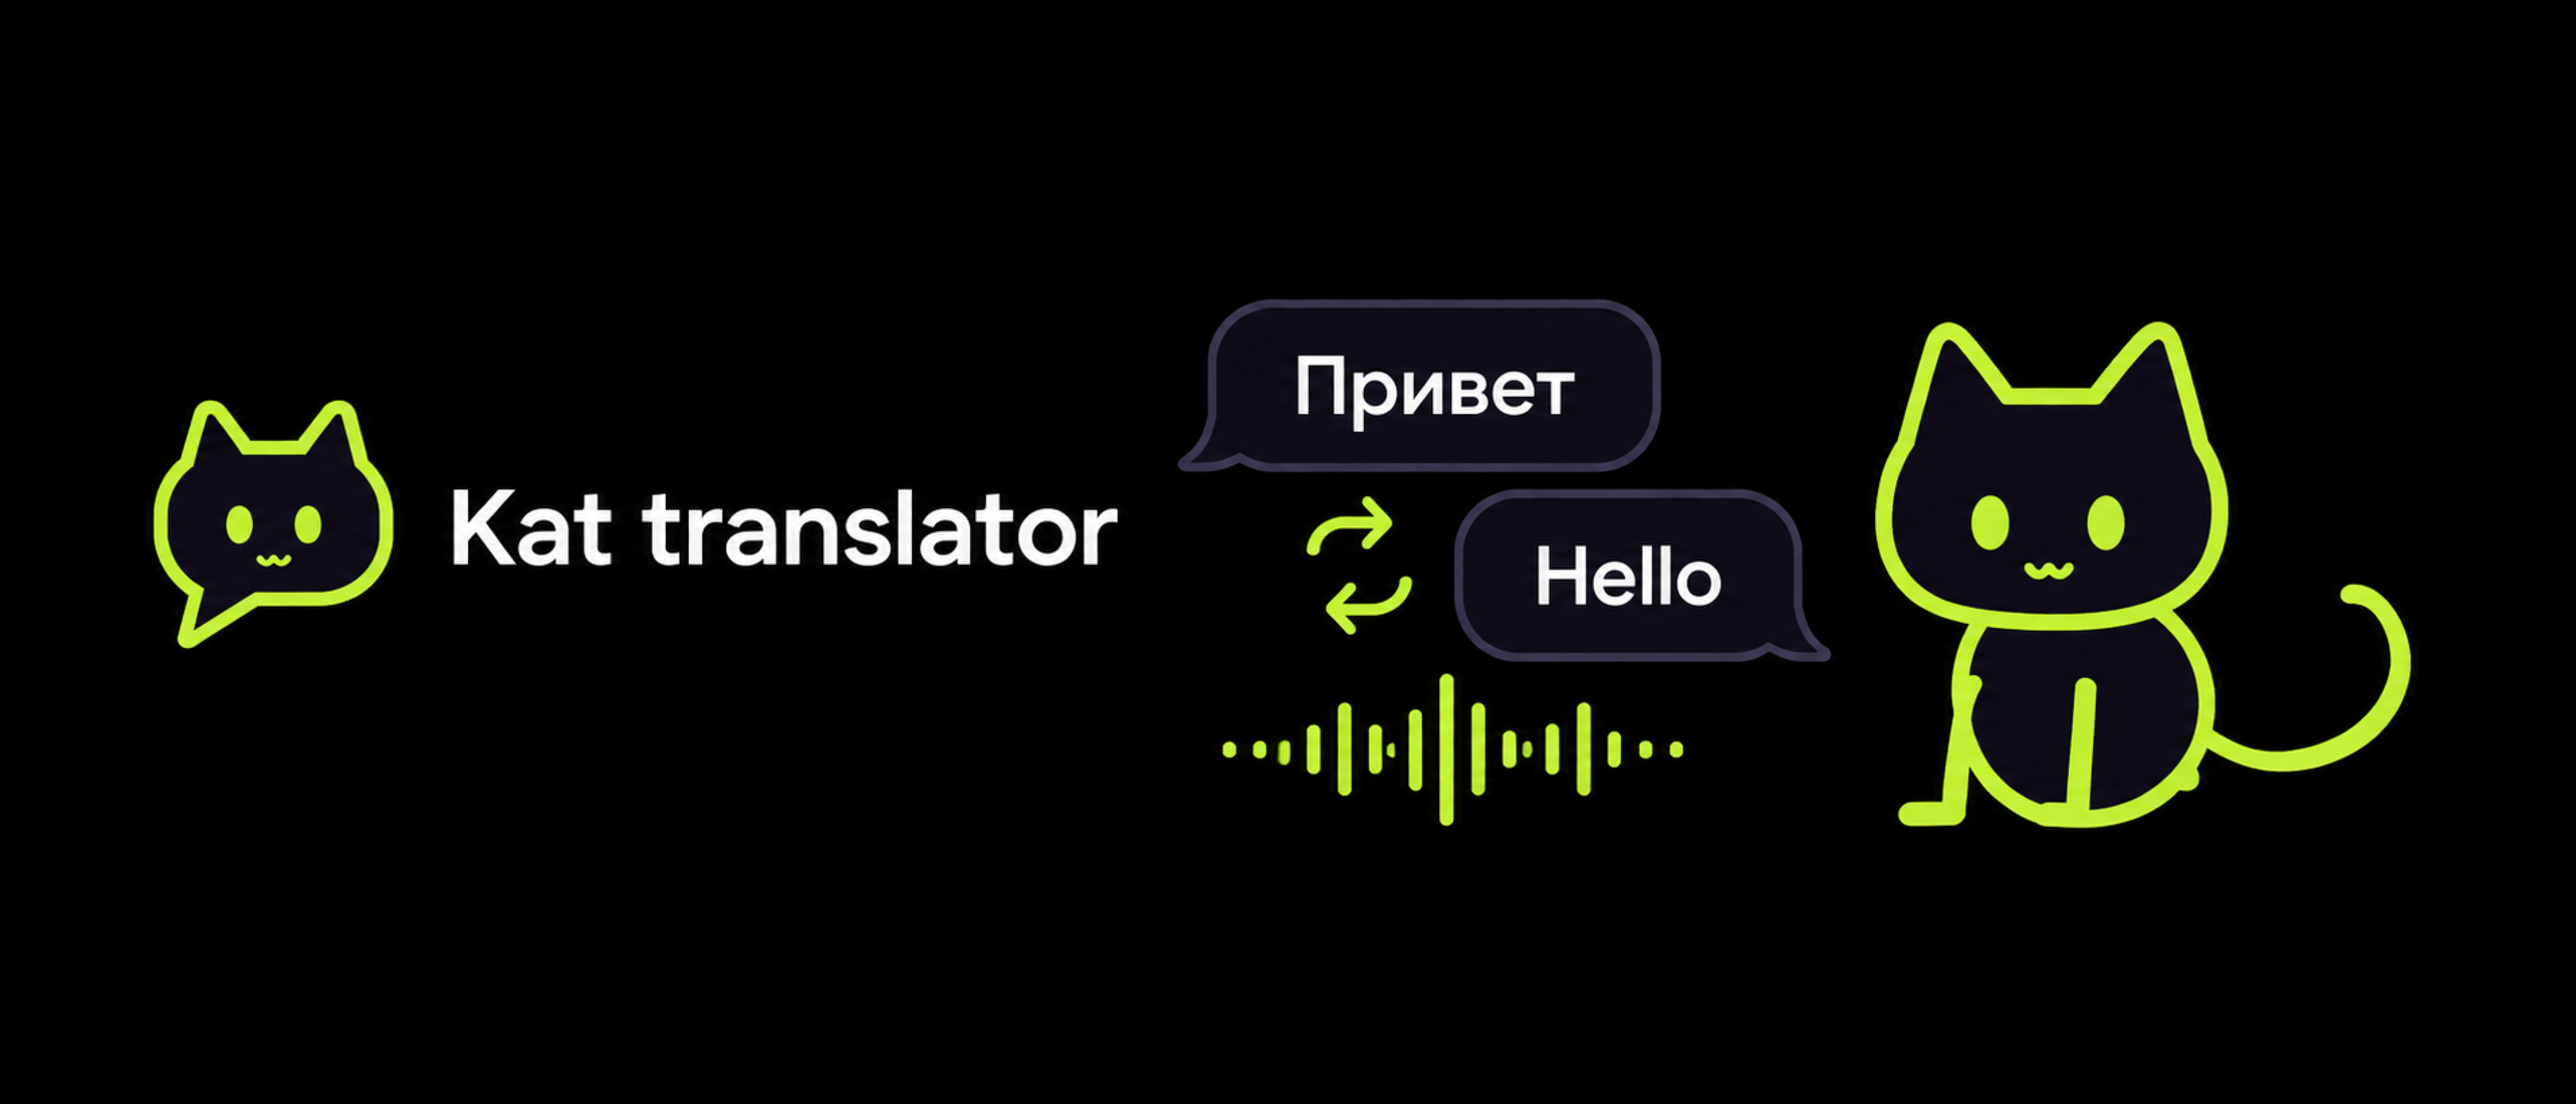
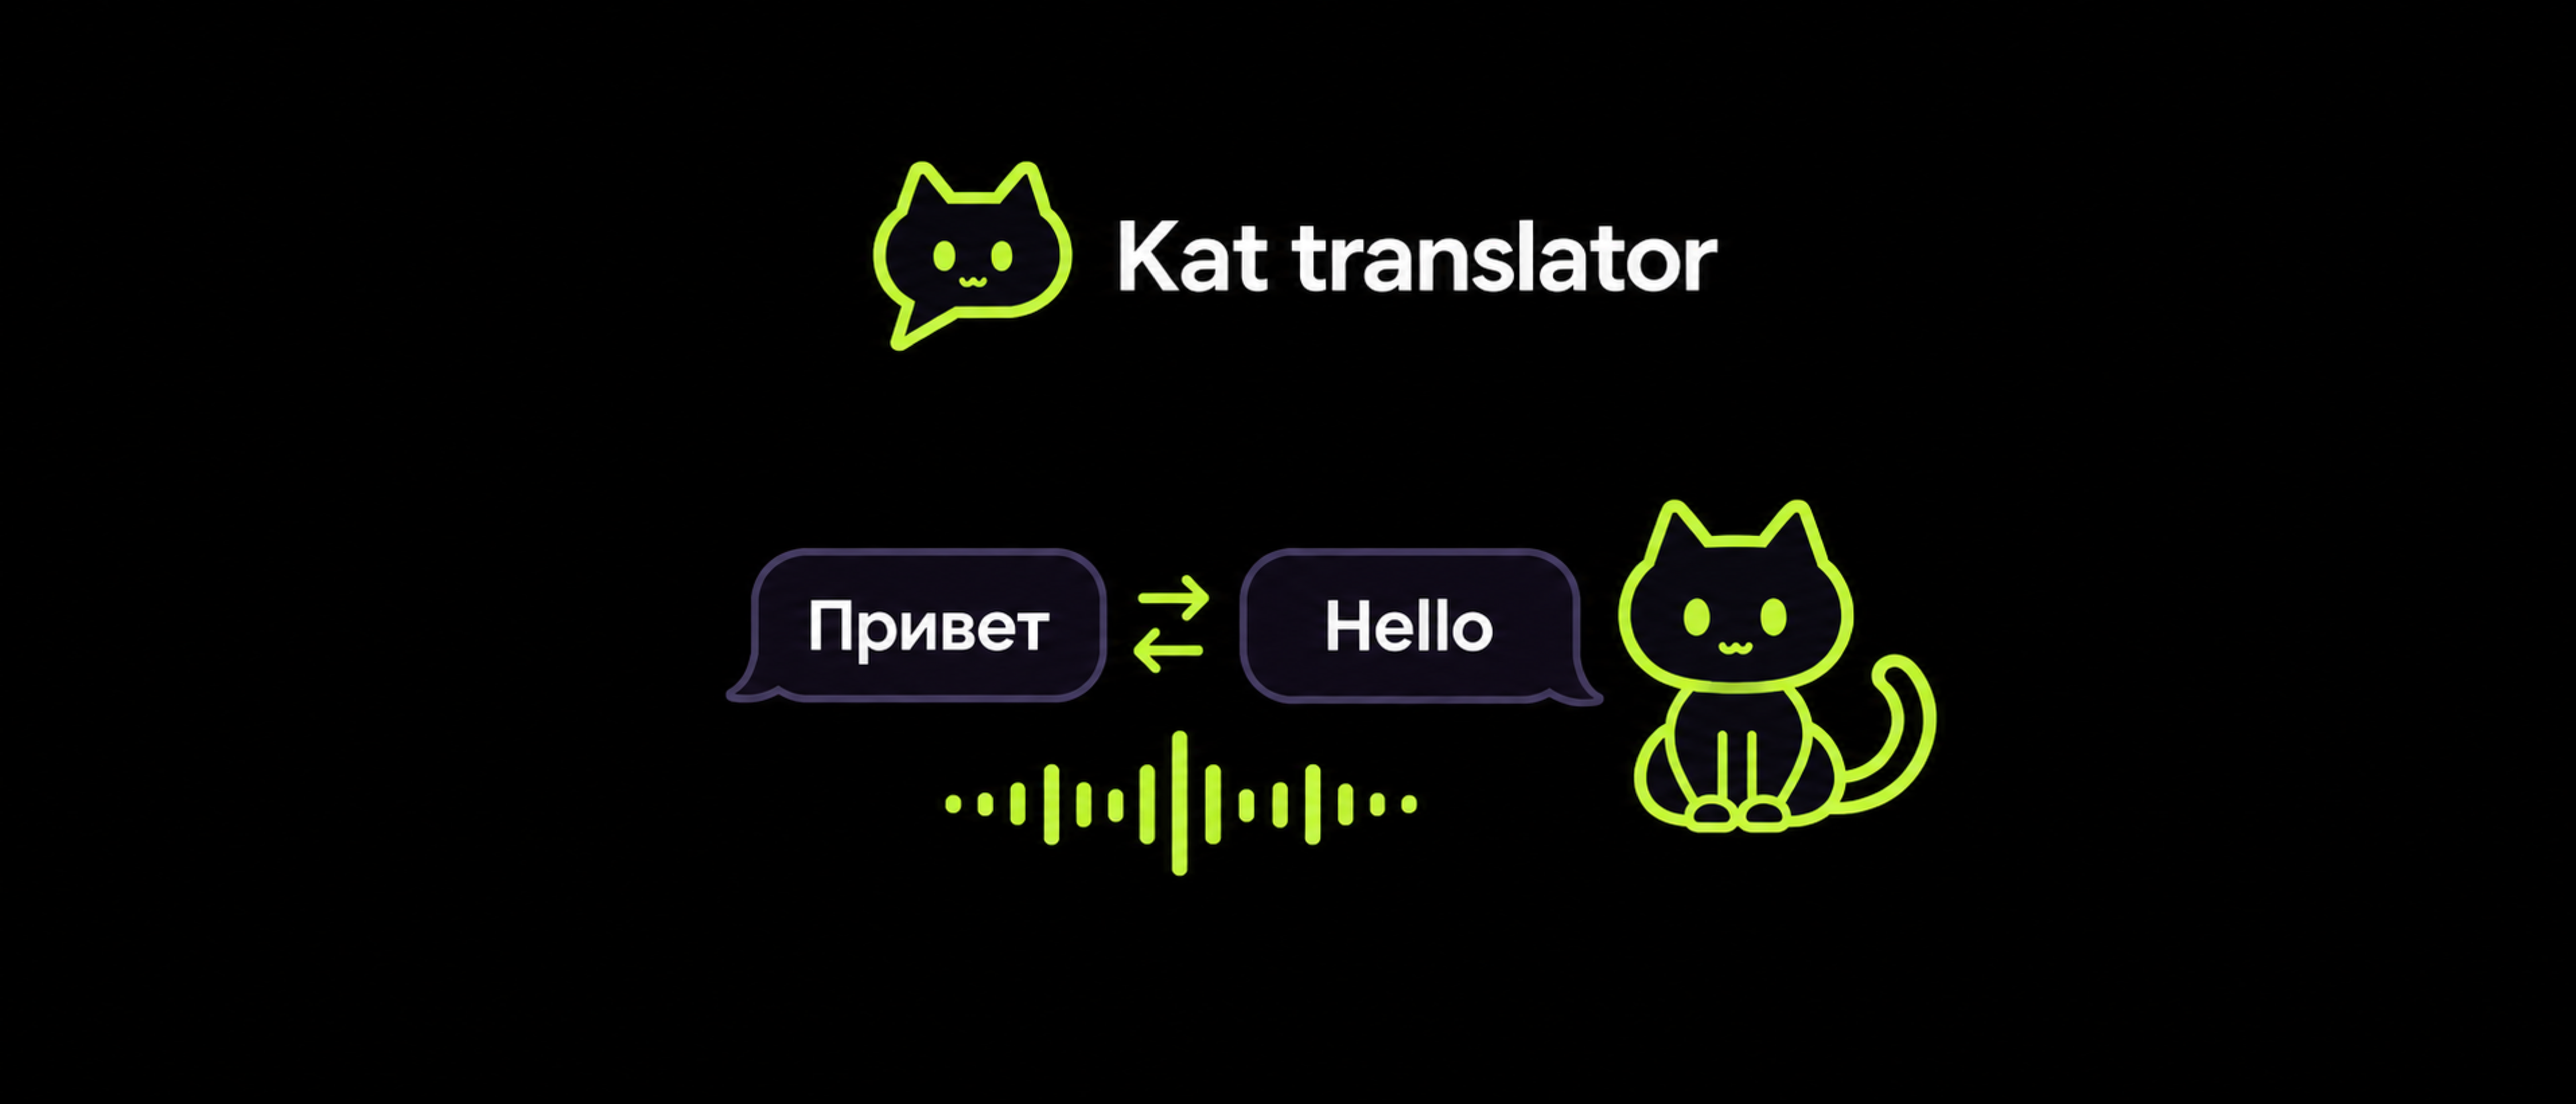
Align store artwork and center the header composition

Changed region(s): [[0.0625, 0.1549, 0.9375, 0.8056]]

diff --git a/docs/publication/2026-10-14/creative-assets/README.md b/docs/publication/2026-10-14/creative-assets/README.md
@@ -11,7 +11,7 @@
 
 Композиция обновлена: чёрный фон, небольшая иконка Kat и название, плоский контурный кот в стиле штатной анимации загрузки, две реплики «Привет» ↔ «Hello» и звуковая волна. Двуязычная пара показывает пример перевода; интерфейс приложения не имитируется. Название бренда неизменно. Для RU-карточки готово; отдельные EN/ES/TR варианты с локальными примерами пока не подготовлены.
 
-Создано встроенным **image_gen**, с реальной иконкой Kat и кадром штатной Canvas-анимации загрузки как референсами. Кот перерисован в стиле приложения; фотографические мемы не использованы в итоговом комплекте. Исходные результаты сохранены в `sources/`: Header 1915×821, Search Results 1536×1024. Затем выполнен обычный экспорт с масштабированием до размеров Apple и профилем sRGB; это не нативная генерация 4K. Промпты и решения — [prompts.md](prompts.md), контрольные суммы — [manifest.json](manifest.json).
+Создано встроенным **image_gen**, с реальной иконкой Kat и кадром штатной Canvas-анимации загрузки как референсами. Финальная версия: логотип и название наверху по центру, иллюстрация перевода и кот ниже в центральной группе; две симметричные передние лапы, реплики одинаковой высоты на общей линии, стрелки между ними. Кот перерисован в стиле приложения; фотографические мемы не использованы в итоговом комплекте. Исходные результаты сохранены в `sources/`: Header 1915×821, Search Results 1536×1024. Затем выполнен обычный экспорт с масштабированием до размеров Apple и профилем sRGB; это не нативная генерация 4K. Промпты и решения — [prompts.md](prompts.md), контрольные суммы — [manifest.json](manifest.json).
 
 Требования сверены 14.10.2026 по официальной [спецификации Apple](https://developer.apple.com/help/app-store-connect/reference/app-information/creative-assets-specifications/) и [рекомендациям к композиции](https://developer.apple.com/app-store/asset-best-practices/). Наличие правильных размеров не означает одобрения изображения Apple.
 

diff --git a/docs/publication/2026-10-14/creative-assets/prompts.md b/docs/publication/2026-10-14/creative-assets/prompts.md
@@ -13,3 +13,11 @@ Recompose the matching header as 3:2. Compact logo and one-line wordmark above; 
 ## Export
 
 Generated originals in sources/. Export to exact Apple dimensions with sRGB profile using sips; no alpha. Hashes and final sizes in manifest.json. App Store Connect Preview remains unverified.
+
+## Final alignment correction
+
+Two symmetrical front legs terminating in paired rounded paws on the same baseline, tucked hind legs and a clean curled tail. Equal-size horizontal speech bubbles with matching font size and padding, aligned baseline and centered straight opposite arrows. Preserve the approved flat style. Header approved; Search Results recomposed to the same geometry.
+
+## Final Header layout
+
+Brand icon and one-line wordmark centered in the upper band; translation bubbles, waveform and seated cat form one centered group below. Preserve approved character and aligned text. Search Results uses the corresponding two-tier layout.
